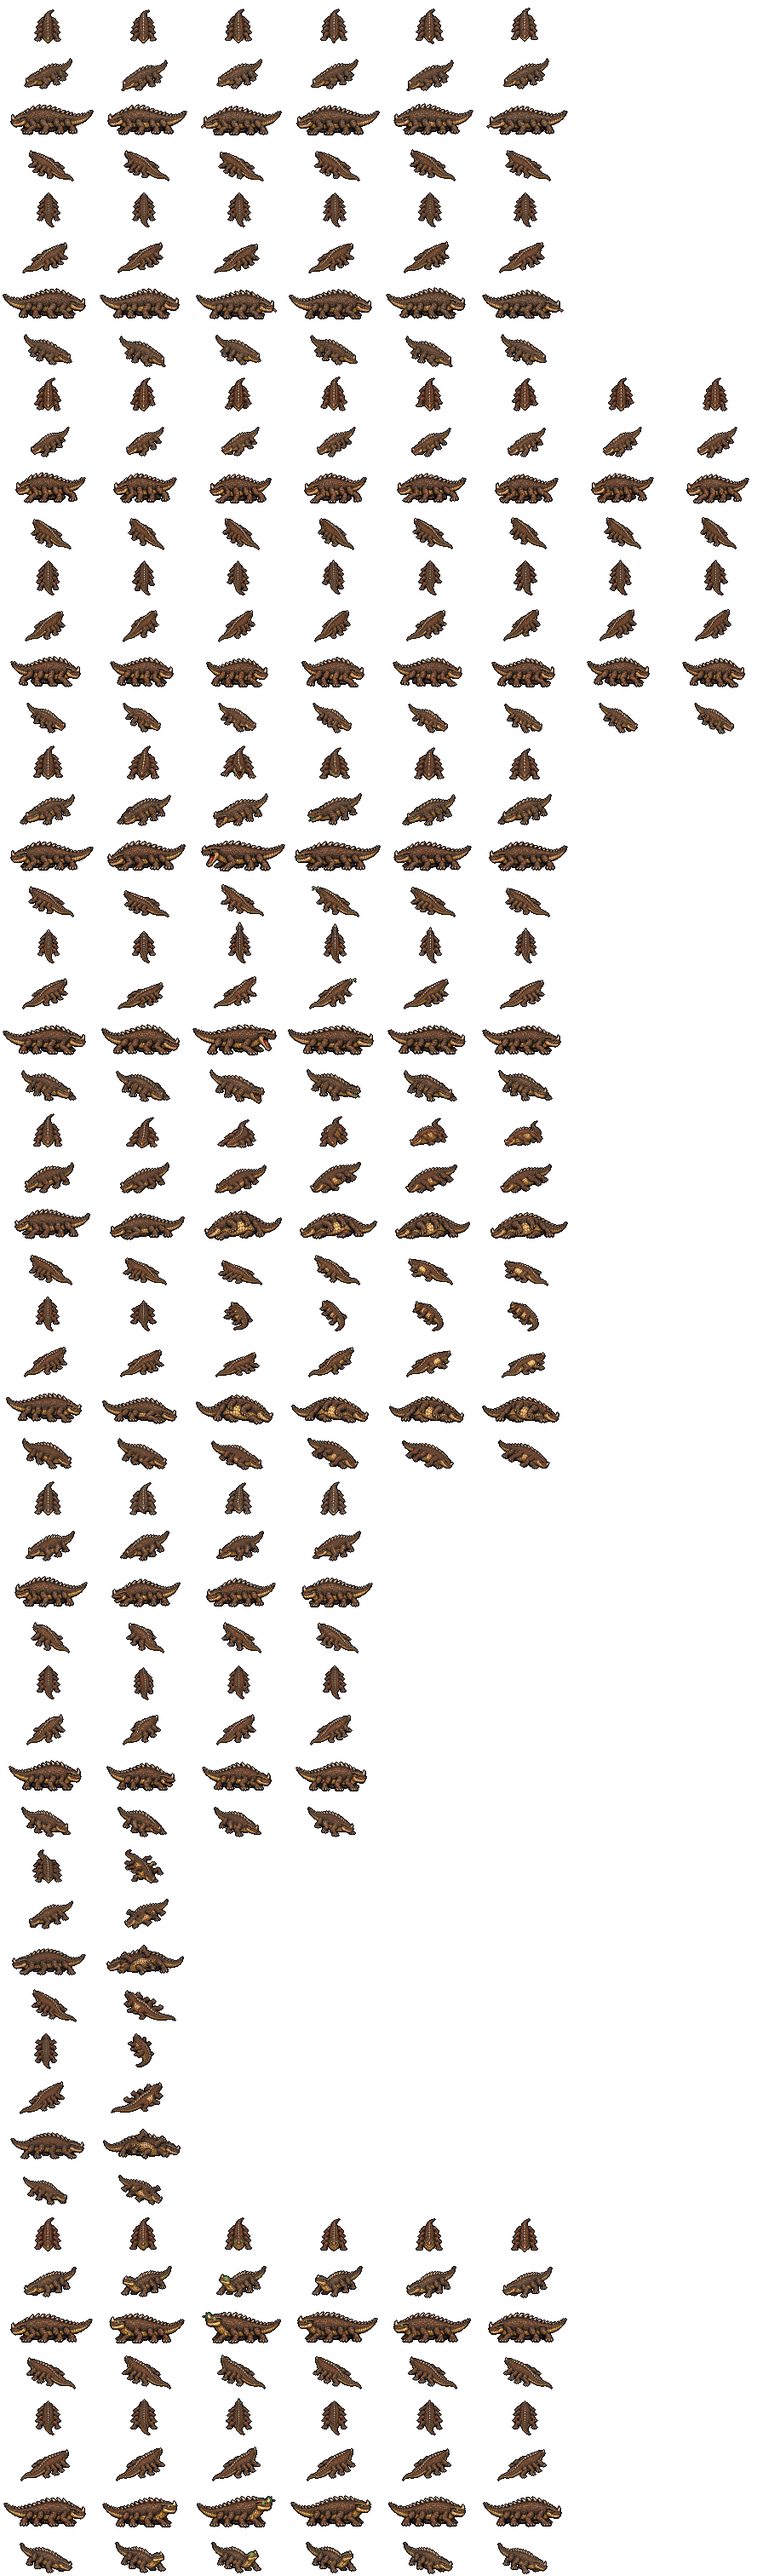
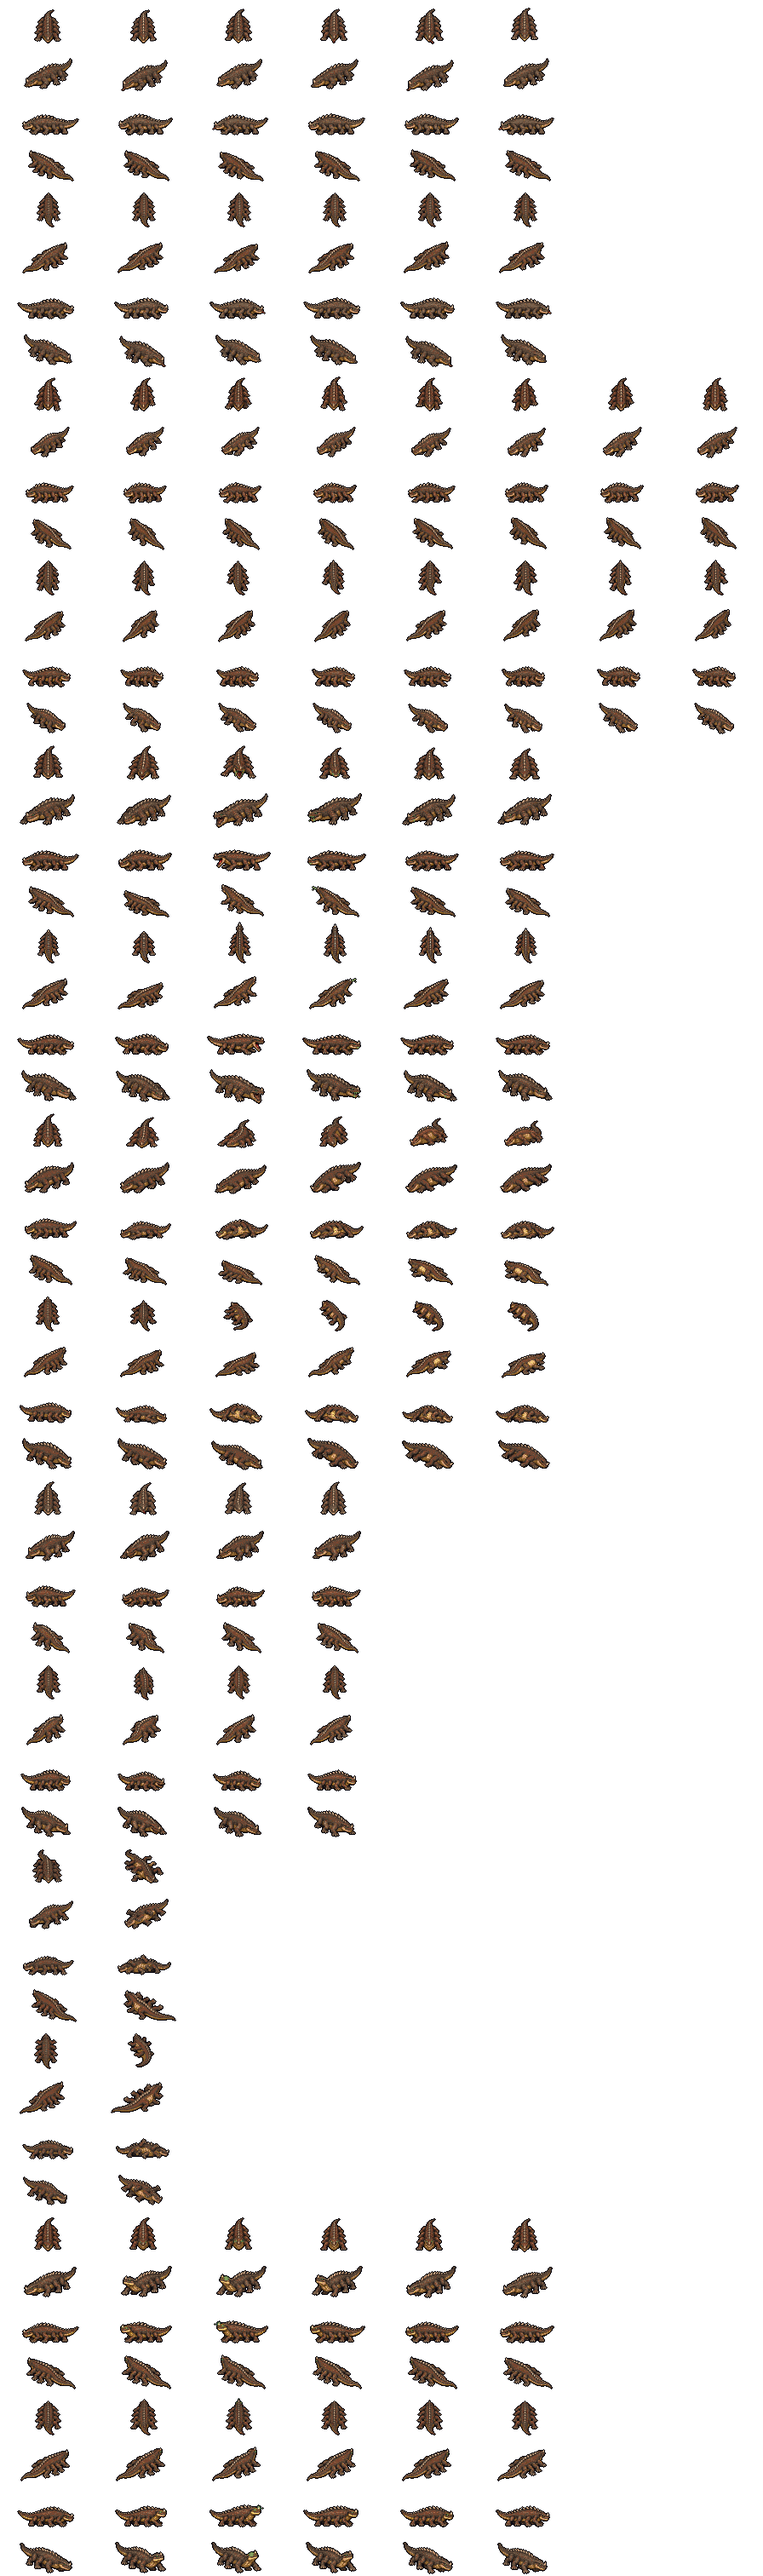
The basilisk's E and W brought to the size of its other facings, and the winter wolf's idle without its frost puff
tools/basilisk-sheet.py: every E page scaled by 0.68 (sqrt of 1023 / 2223): side-on it stood as tall as from every other side (37 px
against 37 to 41) but ran 98 px nose to tail, its idle 2.2 times the SE's area; now 25 tall and 67 long, the area the diagonal it turns into
covers. E smaller in the second pass only, so the tone the diagonals were cut to is unchanged: basilisk_p1's E and W rows changed, every
other facing byte for byte.
tools/winterwolf-sheet.py: the art desk drew a puff of breath at the muzzle on the idles (SE and NE every frame, E and N some); at game
speed it hung there like a speech bubble. An idle frame keeps its body alone (its biggest piece, and any a quarter of that), and the puffs
that touch the nose on SE's page and N's Idle 5's beside the ear are boxed by hand; the tones and the scales still read the cut as it was:
winterwolf_p1's idle rows changed, every other row byte for byte. The breath row's own frost untouched.
On Griz's ear file of 10-28 (to the lanes desk): "basilisks east and west made him look way larger than all the other facings"; "I
remember the winter wolf's cold breath looked like a static speech bubble on idle".

diff --git a/deep16/index.html b/deep16/index.html
@@ -77,7 +77,7 @@
 <script src="js/art.js?v=e1ce4cf012"></script>
 <script src="data/cavern.js?v=647c1a184a"></script>
 <script src="data/maps.js?v=971b4fe9e6"></script>
-<script src="data/sprites.js?v=aa279430cb"></script>
+<script src="data/sprites.js?v=4729e61511"></script>
 <script src="js/sprites.js?v=132505c283"></script>
 <script src="js/save.js?v=1191d6f29a"></script>
 <script src="data/spells.js?v=b819b6e987"></script>

diff --git a/deep16/data/sprites.js b/deep16/data/sprites.js
@@ -1516,7 +1516,7 @@
 }
 },
 "basilisk_p1": {
-"image": "art/basilisk_p1.png?v=26e5703720",
+"image": "art/basilisk_p1.png?v=ca477983b7",
 "fw": 112,
 "fh": 54,
 "ax": 56,
@@ -16545,7 +16545,7 @@ true
 "door": "warp:winters"
 },
 "winterwolf_p1": {
-"image": "art/winterwolf_p1.png?v=a352bc67a7",
+"image": "art/winterwolf_p1.png?v=79f2b9c104",
 "fw": 228,
 "fh": 142,
 "ax": 114,

diff --git a/tools/winterwolf-sheet.py b/tools/winterwolf-sheet.py
@@ -120,6 +120,50 @@ CUTS = {'H2P2': {'breath': [(1327, 64, 1327, 94), (1326, 92, 1368, 92)]}}
 JOINS = {'breath2': 'breath'}
 ROWS = ['idle', 'walk', 'attack', 'hurt', 'flinch', 'breath', 'prone']
 FPS = {'idle': 6, 'walk': 10, 'attack': 10, 'hurt': 8, 'flinch': 10, 'breath': 8, 'prone': 6}
+# no frost puff on the idle (10-28, Griz, his ear file: "I remember the winter wolf's cold breath looked like a static speech bubble on idle"):
+# the art desk drew a puff of breath at the muzzle on the idles (SE and NE every frame, E and N some), loose on the page; at game speed it
+# hung there like a speech bubble. An idle frame keeps its body alone -- its biggest piece, and any piece a quarter of that -- the breath row's
+# own frost untouched
+from scipy import ndimage as _nd
+def _body_only(im):
+    a = np.asarray(im).copy()
+    lab, n = _nd.label(a[..., 3] > 0, structure=np.ones((3, 3)))
+    if n < 2:
+        return im, 0
+    sz = _nd.sum(a[..., 3] > 0, lab, range(1, n + 1))
+    keep = 1 + np.where(sz >= 0.25 * sz.max())[0]
+    gone = ~np.isin(lab, keep) & (lab > 0)
+    a[gone, 3] = 0
+    return Image.fromarray(a, 'RGBA'), int(gone.sum())
+_cut0, _tones0, _PUFF, _RAW = AD.cut, AD.tones, [False], [None]
+_scales0 = AD.scales
+def _tones(cuts, *a, **k):                     # (the tones and the scales measured on the cut as it was, puffs and all: every other row byte for byte)
+    return _tones0(_RAW[0] or cuts, *a, **k)
+def _scales(cuts, *a, **k):
+    return _scales0(_RAW[0] or cuts, *a, **k)
+AD.tones, AD.scales = _tones, _scales
+# SE's puffs touch the nose on the page (five of six), N's Idle 5 joins its ear: boxed by hand, page px, the blue-grey frost by the head
+PUFF_AWAY = {'H1P1': {'idle': [(344, 303, 374, 334), (582, 301, 611, 331), (812, 303, 840, 332), (1036, 313, 1066, 343), (1268, 310, 1299, 340), (1513, 303, 1546, 333)]},
+             'H5P1': {'idle': [(1644, 155, 1715, 228)]}}       # (and N's Idle 5: its puff beside the ear, joined to it at the cut)
+def _cut(*a, **k):
+    out = _cut0(*a, **k)
+    if not _PUFF[0]:
+        return out
+    _RAW[0] = {L: dict(rows) for L, rows in out.items()}
+    pages = dict(a[3])
+    for L, aw in PUFF_AWAY.items():
+        if L in pages:
+            pages[L] = dict(pages[L], away=dict(pages[L].get('away', {}), **aw))
+    out = _cut0(*(a[:3] + (pages,) + a[4:]), **k)
+    for L, rows in out.items():
+        for r in rows:
+            if r.split('_')[0] == 'idle':
+                fr = [(_body_only(im) if im is not None else (None, 0), box, x) for im, box, x in rows[r]]
+                if any(g for (_, g), _, _ in fr):
+                    print('  %s %s: puffs off %s page px' % (L, r, [g for (_, g), _, _ in fr]))
+                rows[r] = [(im, box, x) for (im, _), box, x in fr]
+    return out
+AD.cut = _cut
 
 
 def fit(img, k):
@@ -177,6 +221,7 @@ def build():
     kw = dict(fix=FIX, cuts=CUTS, targets=tg, joins=JOINS, feet=FEET)
     first = AD.views(ROOT, 'winterwolf', 'ART-54', PAGES, VIEWS, STAND, fit, torso_x, cell, **kw)
     ref = {'side': first['E']['idle'][0], 'S': first['S']['idle'][0], 'N': first['N']['idle'][0]}
+    _PUFF[0] = True                      # (the idles' puffs off in the second pass only: the first pass's idles stay the tone refs they were)
     d = AD.views(ROOT, 'winterwolf', 'ART-54', PAGES, VIEWS, STAND, fit, torso_x, cell, tone_ref=ref, **kw)
     d = {v: dict(rows, prone=rows['prone'][::-1]) for v, rows in d.items()}
     frames = {}

diff --git a/tools/basilisk-sheet.py b/tools/basilisk-sheet.py
@@ -118,6 +118,18 @@ VIEWS = {v: tuple('H%dP%d' % (h, p) for p in range(p0, p0 + 7)) for v, h, p0 in 
 JOINS = {r + '_b': r for r in ('idle', 'walk', 'gaze', 'attack', 'flinch', 'hurt', 'prone')}
 ROWS = ['idle', 'walk', 'attack', 'hurt', 'flinch', 'gaze', 'prone']
 FPS = {'idle': 6, 'walk': 10, 'attack': 10, 'hurt': 8, 'flinch': 10, 'gaze': 8, 'prone': 6}
+# E and W smaller (10-28, Griz, his ear file: "basilisks east and west made him look way larger than all the other facings"): side-on the long
+# lizard stood as tall as from every other side (37 px against 37 to 41) but ran 98 px nose to tail, its idle 2.2 times the SE's area (2223 px
+# against 1023). Every E page together by sqrt(1023 / 2223): the side view covers what the diagonal it turns into covers; the other facings
+# byte for byte as they were
+E_SCALE = 0.68
+_scales0, _SHRINK = AD.scales, [False]
+def _scales(cuts, views, *a, **k):
+    K = _scales0(cuts, views, *a, **k)
+    for L in (views.get('E', ()) if _SHRINK[0] else ()):
+        K[L] /= E_SCALE
+    return K
+AD.scales = _scales
 
 
 def fit(img, k):
@@ -148,6 +160,7 @@ def build():
     kw = dict(fix=FIX, cuts=CUTS, stand_of=STAND_OF, joins=JOINS)
     first = AD.views(ROOT, 'basilisk', 'ART-17', PAGES, VIEWS, STAND, fit, torso_x, cell, **kw)
     ref = {'side': first['E']['idle'][0], 'S': first['S']['idle'][0], 'N': first['N']['idle'][0]}
+    _SHRINK[0] = True                    # (E smaller in the second pass only: its first-pass idle stays the tone the diagonals were cut to)
     d = AD.views(ROOT, 'basilisk', 'ART-17', PAGES, VIEWS, STAND, fit, torso_x, cell, tone_ref=ref, **kw)
     d = {v: dict(rows, prone=rows['prone'][::-1]) for v, rows in d.items()}
     frames = {}
